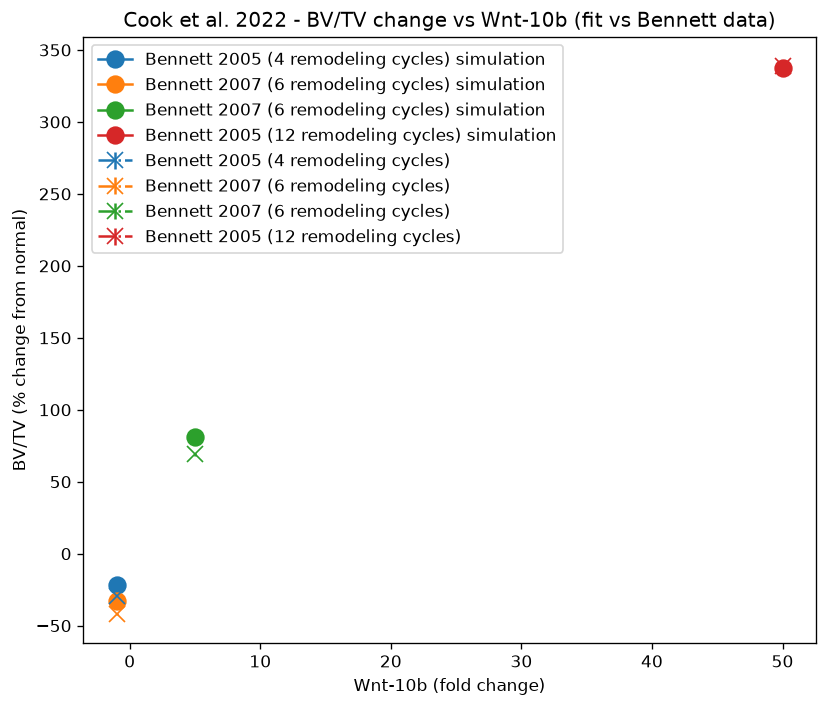
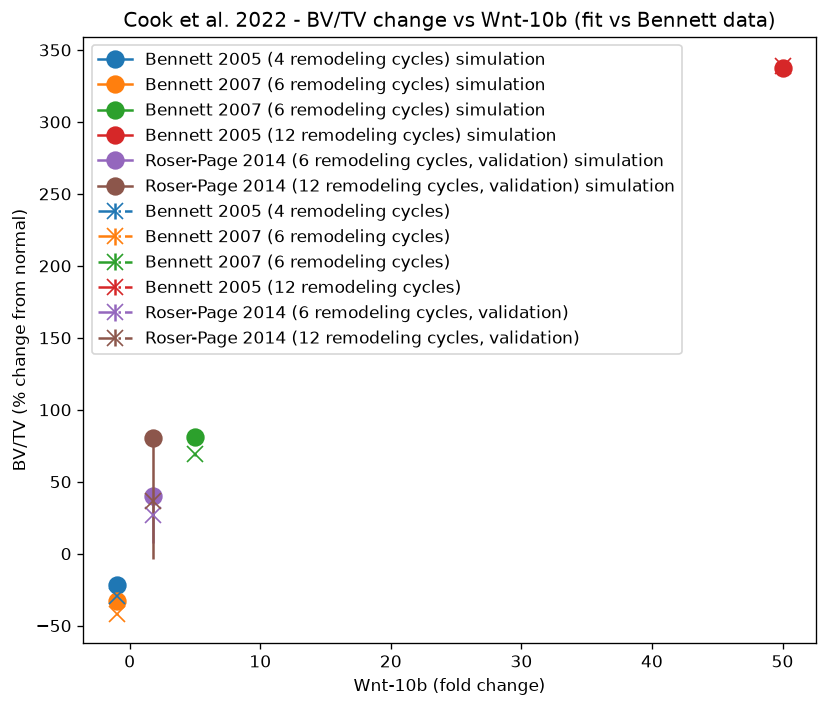
Cook_AIChE2022: add Roser-Page validation data and paper figures 5 and 6
- Add the Roser-Page (2014) CTLA-4Ig validation data (Wnt-10b fold change
  1.8) as a new condition Wnt_1_8 with two BV/TV endpoints (26.6 % at
  600 d / 6 cycles, 36.6 % at 1200 d / 12 cycles). These were held out from
  the fit in the original study; they carry their reported SDs (19.2, 40.6)
  as noise so they contribute negligibly to the objective.
- Update the measurement, condition, simulated-data and visualization
  tables accordingly; the dose-response visualization now also overlays the
  validation points.
- Extend make_figures.py to reproduce, using the publication's figure
  numbering, Figure 5 (validation vs Roser-Page: bone volume over 12 cycles
  at fold change 1.8 with the 1.2-2.4 envelope) and Figure 6 (cell-population
  response to Wnt-10b: max pre-osteoblast/osteoblast/osteoclast counts vs
  fold change).
- Document the validation data and the two new figures in README.md.

Claude-Session: https://claude.ai/code/session_014d2j46C3U5ft3yP6xrk1XZ

Changed region(s): [[0.1209, 0.2178, 0.8162, 0.4979], [0.1511, 0.5912, 0.2116, 0.7779], [0.6651, 0.0622, 0.6953, 0.0934]]

diff --git a/Benchmark-Models/Cook_AIChE2022/make_figures.py b/Benchmark-Models/Cook_AIChE2022/make_figures.py
@@ -2,14 +2,26 @@
 """Reproduce figures from Cook et al. (2022) using PEtab visualization.
 
 The script simulates the PEtab model in this directory (via libroadrunner)
-and plots the results with ``petab.v1.visualize``. It produces three figures:
+and plots the results with ``petab.v1.visualize``. It produces:
 
 1. ``fig1_validation_doseresponse.png`` -- BV/TV change vs Wnt-10b fold change,
-   model fit vs the Bennett 2005/2007 data (the committed PEtab visualization).
+   model fit vs the Bennett 2005/2007 data (the committed PEtab visualization),
+   now also overlaying the Roser-Page 2014 validation points.
 2. ``fig2_bone_volume_vs_time.png`` -- relative bone volume over the multiple
    remodeling cycles for Wnt-10b fold changes -1, 5 and 50.
 3. ``fig3_cell_populations_Wnt50.png`` -- osteocyte / pre-osteoblast /
    osteoblast / osteoclast dynamics for a Wnt-10b fold change of 50.
+
+It additionally reproduces two figures using the paper's figure numbering:
+
+5. ``fig5_validation_roserpage.png`` -- Figure 5: model validation against the
+   Roser-Page (2014) data. Relative bone volume over 12 remodeling cycles at a
+   Wnt-10b fold change of 1.8, with the 1.2-2.4 fold-change envelope shaded, vs
+   the two Roser-Page BV/TV data points (126.6 +/- 19.2 % at 600 d / 6 cycles
+   and 136.6 +/- 40.6 % at 1200 d / 12 cycles).
+6. ``fig6_cellpopulations_vs_wnt.png`` -- Figure 6: cell-population response to
+   Wnt-10b. Maximum pre-osteoblast, osteoblast and osteoclast counts within a
+   remodeling cycle as a function of the Wnt-10b fold change.
 
 Requirements: petab, libroadrunner, matplotlib, numpy, pandas.
 Run from anywhere: ``python make_figures.py`` (figures are written next to it).
@@ -130,3 +142,52 @@ for state in labels:
 clean_lines(plot_with_vis_spec(pd.DataFrame(vis_rows), conditions, simulations_df=pd.DataFrame(sim_rows)))
 plt.gcf().set_size_inches(10, 7)
 save("fig3_cell_populations_Wnt50.png")
+
+# --- Figure 5 (paper): model validation against Roser-Page 2014 data --------
+# Relative bone volume over 12 remodeling cycles at Wnt-10b fold change 1.8,
+# with the 1.2-2.4 fold-change envelope shaded, vs the Roser-Page BV/TV data.
+central = simulate(1.8, 1200)
+low = simulate(1.2, 1200)
+high = simulate(2.4, 1200)
+tt = central[:, 0]
+fig, ax = plt.subplots(figsize=(8, 6))
+ax.fill_between(tt, low[:, z_idx], high[:, z_idx], color="0.8",
+                label="Wnt-10b fold change 1.2-2.4")
+ax.plot(tt, central[:, z_idx], color="C0", lw=1.8,
+        label="simulation (Wnt-10b fold change 1.8)")
+ax.errorbar(600, 126.6, 19.2, fmt="o", color="C1", capsize=4, lw=2,
+            label="Roser-Page 2014 (6 remodeling cycles)")
+ax.errorbar(1200, 136.6, 40.6, fmt="s", color="C3", capsize=4, lw=2,
+            label="Roser-Page 2014 (12 remodeling cycles)")
+ax.set_xlabel("time (days)")
+ax.set_ylabel("relative bone volume (%)")
+ax.set_xlim(-10, 1210)
+ax.set_title("Cook et al. 2022 Fig. 5 - validation vs Roser-Page data")
+ax.legend(loc="best")
+save("fig5_validation_roserpage.png")
+
+# --- Figure 6 (paper): cell-population response to Wnt-10b ------------------
+# Maximum cell counts within a single remodeling cycle as a function of the
+# Wnt-10b fold change (pre-osteoblasts and osteoblasts increase, osteoclasts
+# decrease with increasing Wnt-10b).
+c_idx = 1 + list(STATES).index("Osteoclasts__C")
+p_idx = 1 + list(STATES).index("Pre_Osteoblasts__P")
+b_idx = 1 + list(STATES).index("Osteoblasts__B")
+wnts = np.linspace(-1, 50, 60)
+max_po, max_ob, max_oc = [], [], []
+for w in wnts:
+    cyc = simulate(w, 100, n_points=1101)  # first remodeling cycle
+    max_po.append(cyc[:, p_idx].max())
+    max_ob.append(cyc[:, b_idx].max())
+    max_oc.append(cyc[:, c_idx].max())
+fig, axes = plt.subplots(1, 3, figsize=(13, 4))
+for ax, ys, lbl, ttl, col in zip(
+        axes, [max_po, max_ob, max_oc],
+        ["max pre-osteoblasts (cells)", "max osteoblasts (cells)",
+         "max osteoclasts (cells)"], ["A", "B", "C"], ["C0", "C2", "C3"]):
+    ax.plot(wnts, ys, color=col, lw=2)
+    ax.set_xlabel("Wnt-10b (fold change)")
+    ax.set_ylabel(lbl)
+    ax.set_title(ttl)
+fig.suptitle("Cook et al. 2022 Fig. 6 - cell-population response to Wnt-10b")
+save("fig6_cellpopulations_vs_wnt.png")

diff --git a/Benchmark-Models/Cook_AIChE2022/README.md b/Benchmark-Models/Cook_AIChE2022/README.md
@@ -33,9 +33,38 @@ expressed as percentage change relative to normal Wnt-10b:
 | `Wnt_5`   | 5   | 6  | 600  |  69.2 | Bennett 2007 |
 | `Wnt_50`  | 50  | 12 | 1200 | 339.0 | Bennett 2005 |
 
+### Validation data (Roser-Page 2014)
+
+The paper additionally *validates* the fitted model against an independent
+dataset that was **not** used for parameter estimation: the CTLA-4Ig
+(abatacept) mouse experiments of Roser-Page et al. 2014, which correspond to a
+Wnt-10b fold change of ~1.8 (with a 1.2–2.4 range). The two BV/TV endpoints are
+reproduced here from the paper's validation figure (`ValidationResults` in the
+original `GraphsforPaper.m`):
+
+| condition | Wnt-10b fold change | remodeling cycles | time [d] | BV/TV change [%] | SD  | source |
+|-----------|--------------------:|------------------:|---------:|-----------------:|----:|--------|
+| `Wnt_1_8` | 1.8 | 6  | 600  | 26.6 | 19.2 | Roser-Page 2014 |
+| `Wnt_1_8` | 1.8 | 12 | 1200 | 36.6 | 40.6 | Roser-Page 2014 |
+
+> Reference: S. Roser-Page et al., *CTLA-4Ig-induced T cell anergy promotes
+> Wnt-10b production and bone formation in a mouse model*, Arthritis &
+> Rheumatology, 2014, 66(4), 990–999. doi:[10.1002/art.38319](https://doi.org/10.1002/art.38319)
+
+These two points are included in the PEtab measurement table (condition
+`Wnt_1_8`, dataset ids `RoserPage2014_*`) so the validation figure can be
+reproduced. Unlike the Bennett fitting data (fixed unit noise), the validation
+points carry their **reported standard deviations** (19.2, 40.6) as
+`noiseParameters`. Because these SDs are large relative to the unit-noise
+Bennett residuals, the validation points contribute negligibly to the objective
+and the fit (see below) is still effectively determined by the Bennett data
+alone, matching the original study where Roser-Page was held out for
+validation.
+
 ## PEtab problem
 
-* **Conditions** (`experimentalCondition`): three Wnt-10b fold changes (-1, 5, 50).
+* **Conditions** (`experimentalCondition`): the three Wnt-10b fold changes used
+  for fitting (-1, 5, 50) plus the validation fold change (1.8, `Wnt_1_8`).
 * **Observable** (`observables`): `obs_BV = Bone_volume__z - 100`, the relative
   BV/TV change. The paper fits with unweighted least squares; this is
   reproduced with a fixed unit noise (`normal`), so the objective equals the
@@ -119,3 +148,21 @@ Wnt-10b fold changes -1, 5 and 50, with the literature endpoints overlaid.
 Osteocyte, pre-osteoblast, osteoblast and osteoclast counts across the 12 cycles.
 
 ![cell populations](fig3_cell_populations_Wnt50.png)
+
+The following two figures use the **numbering of the original publication**.
+
+### Figure 5 — model validation against Roser-Page 2014 data
+Relative bone volume over 12 remodeling cycles at a Wnt-10b fold change of 1.8,
+with the 1.2–2.4 fold-change envelope shaded, compared with the two independent
+Roser-Page BV/TV endpoints (held out from the fit). Both data points lie on the
+simulated trajectory.
+
+![validation vs Roser-Page](fig5_validation_roserpage.png)
+
+### Figure 6 — cell-population response to Wnt-10b
+Maximum pre-osteoblast, osteoblast and osteoclast counts within a remodeling
+cycle as a function of the Wnt-10b fold change: pre-osteoblasts and osteoblasts
+increase while osteoclasts decrease with increasing Wnt-10b, the paper's central
+mechanistic result.
+
+![cell populations vs Wnt-10b](fig6_cellpopulations_vs_wnt.png)